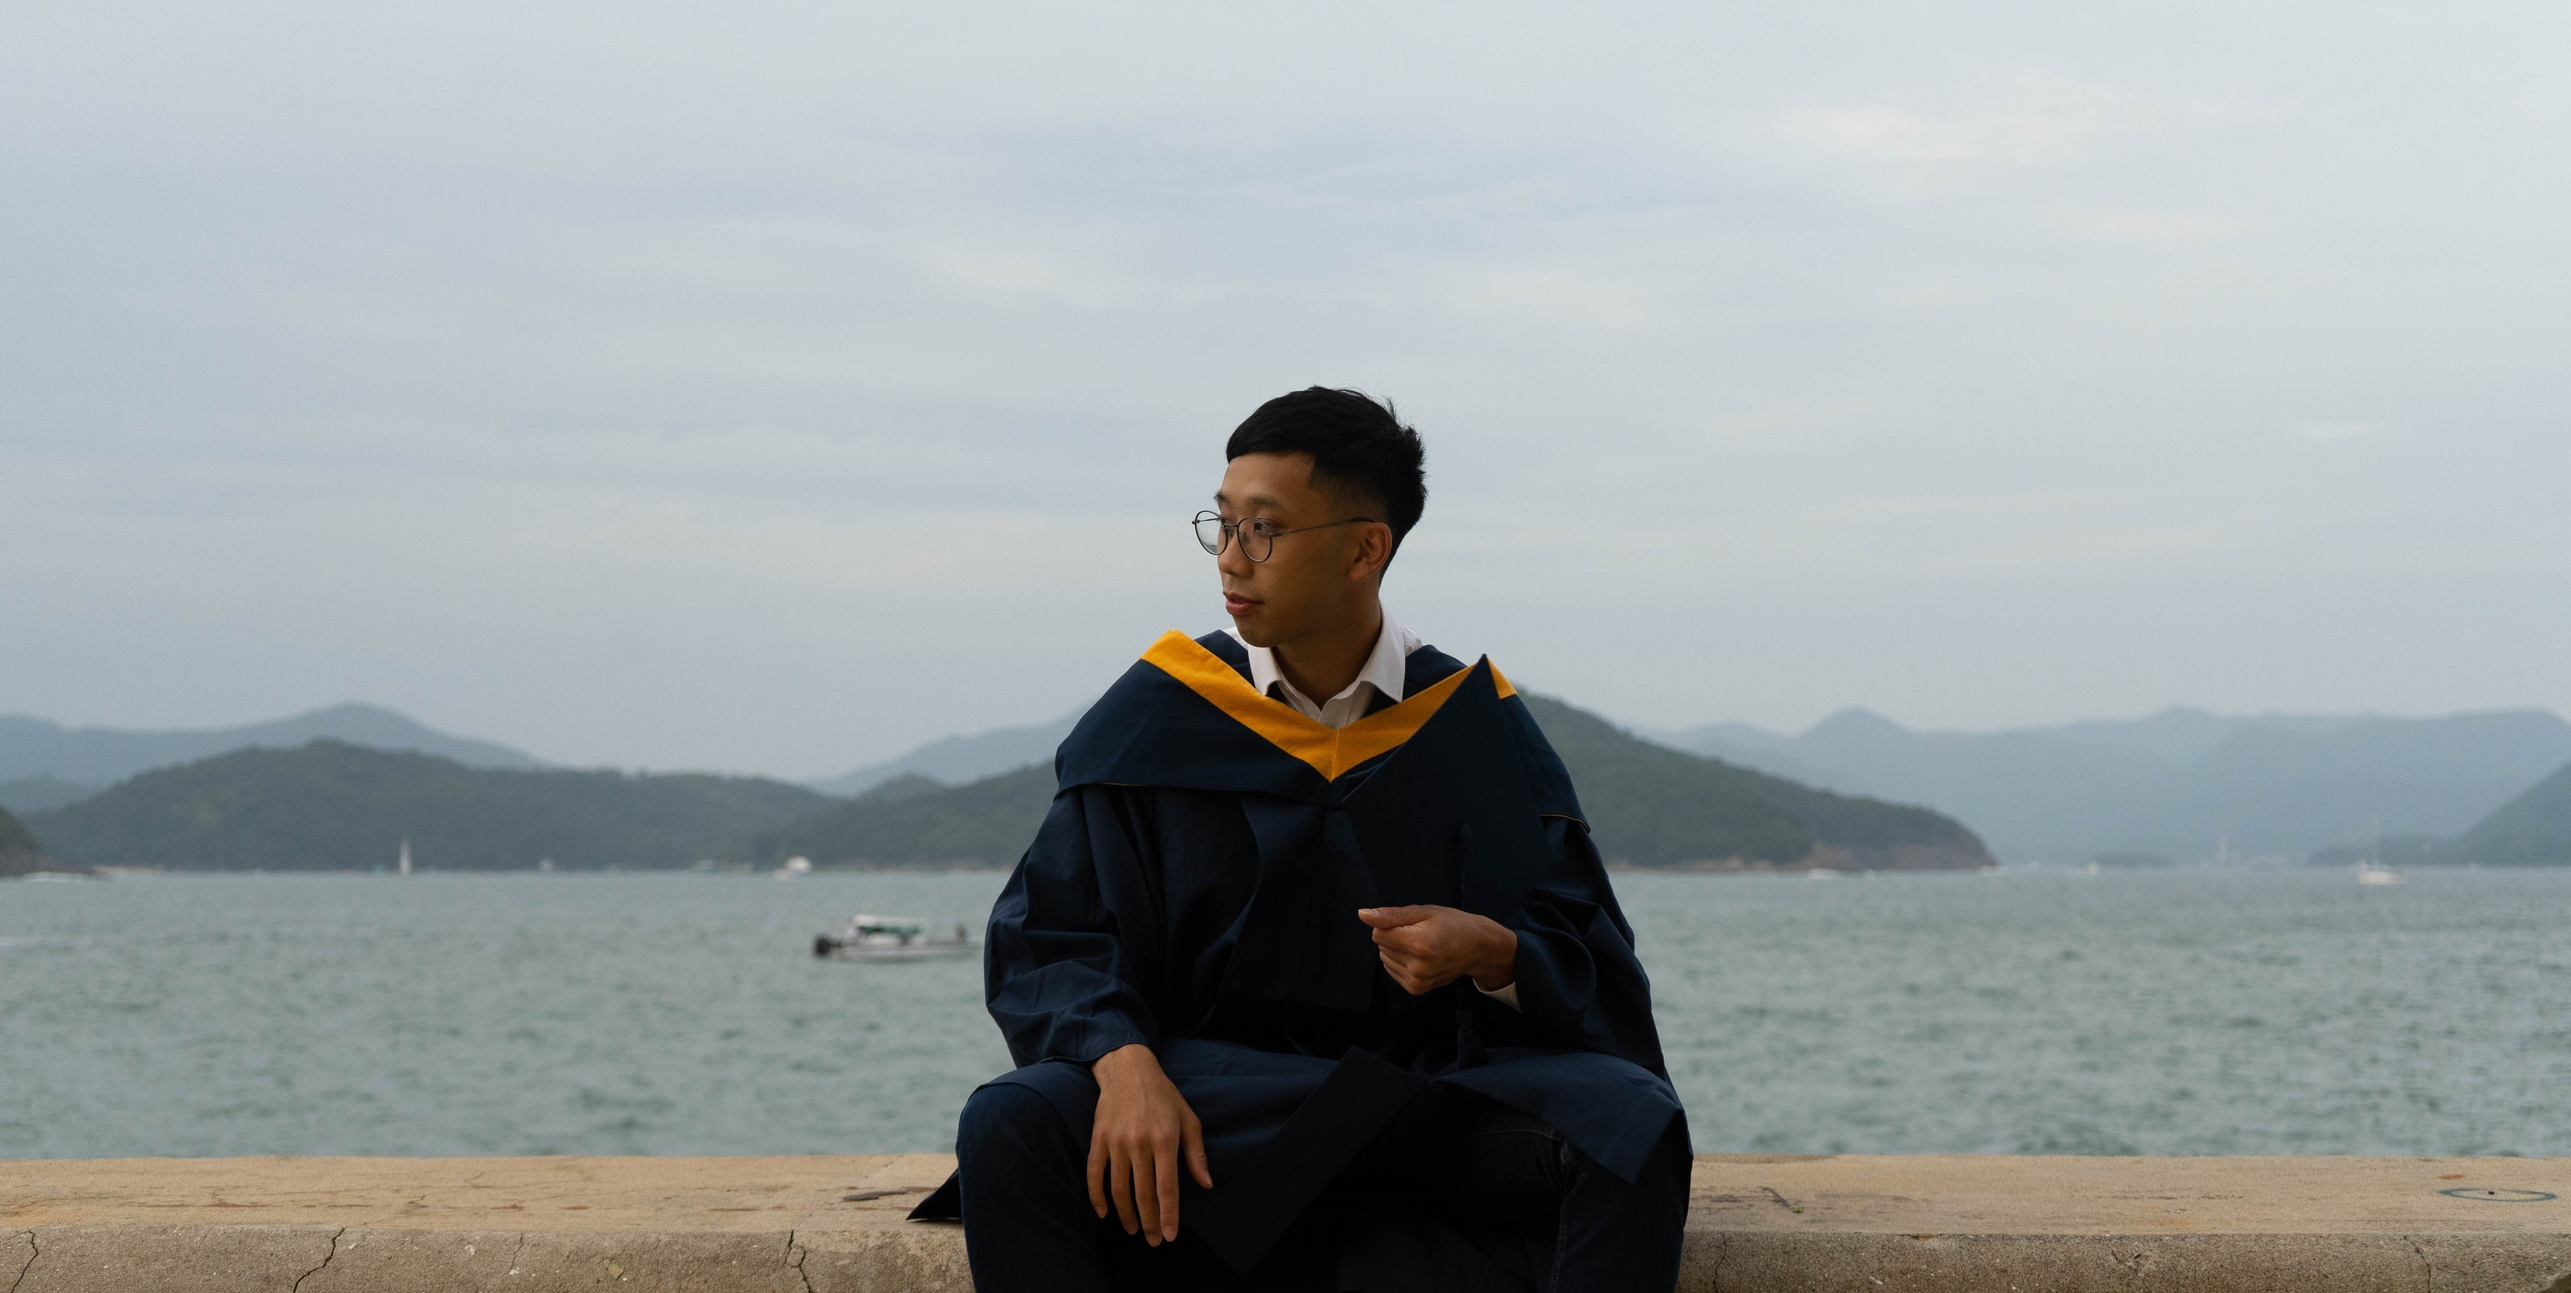
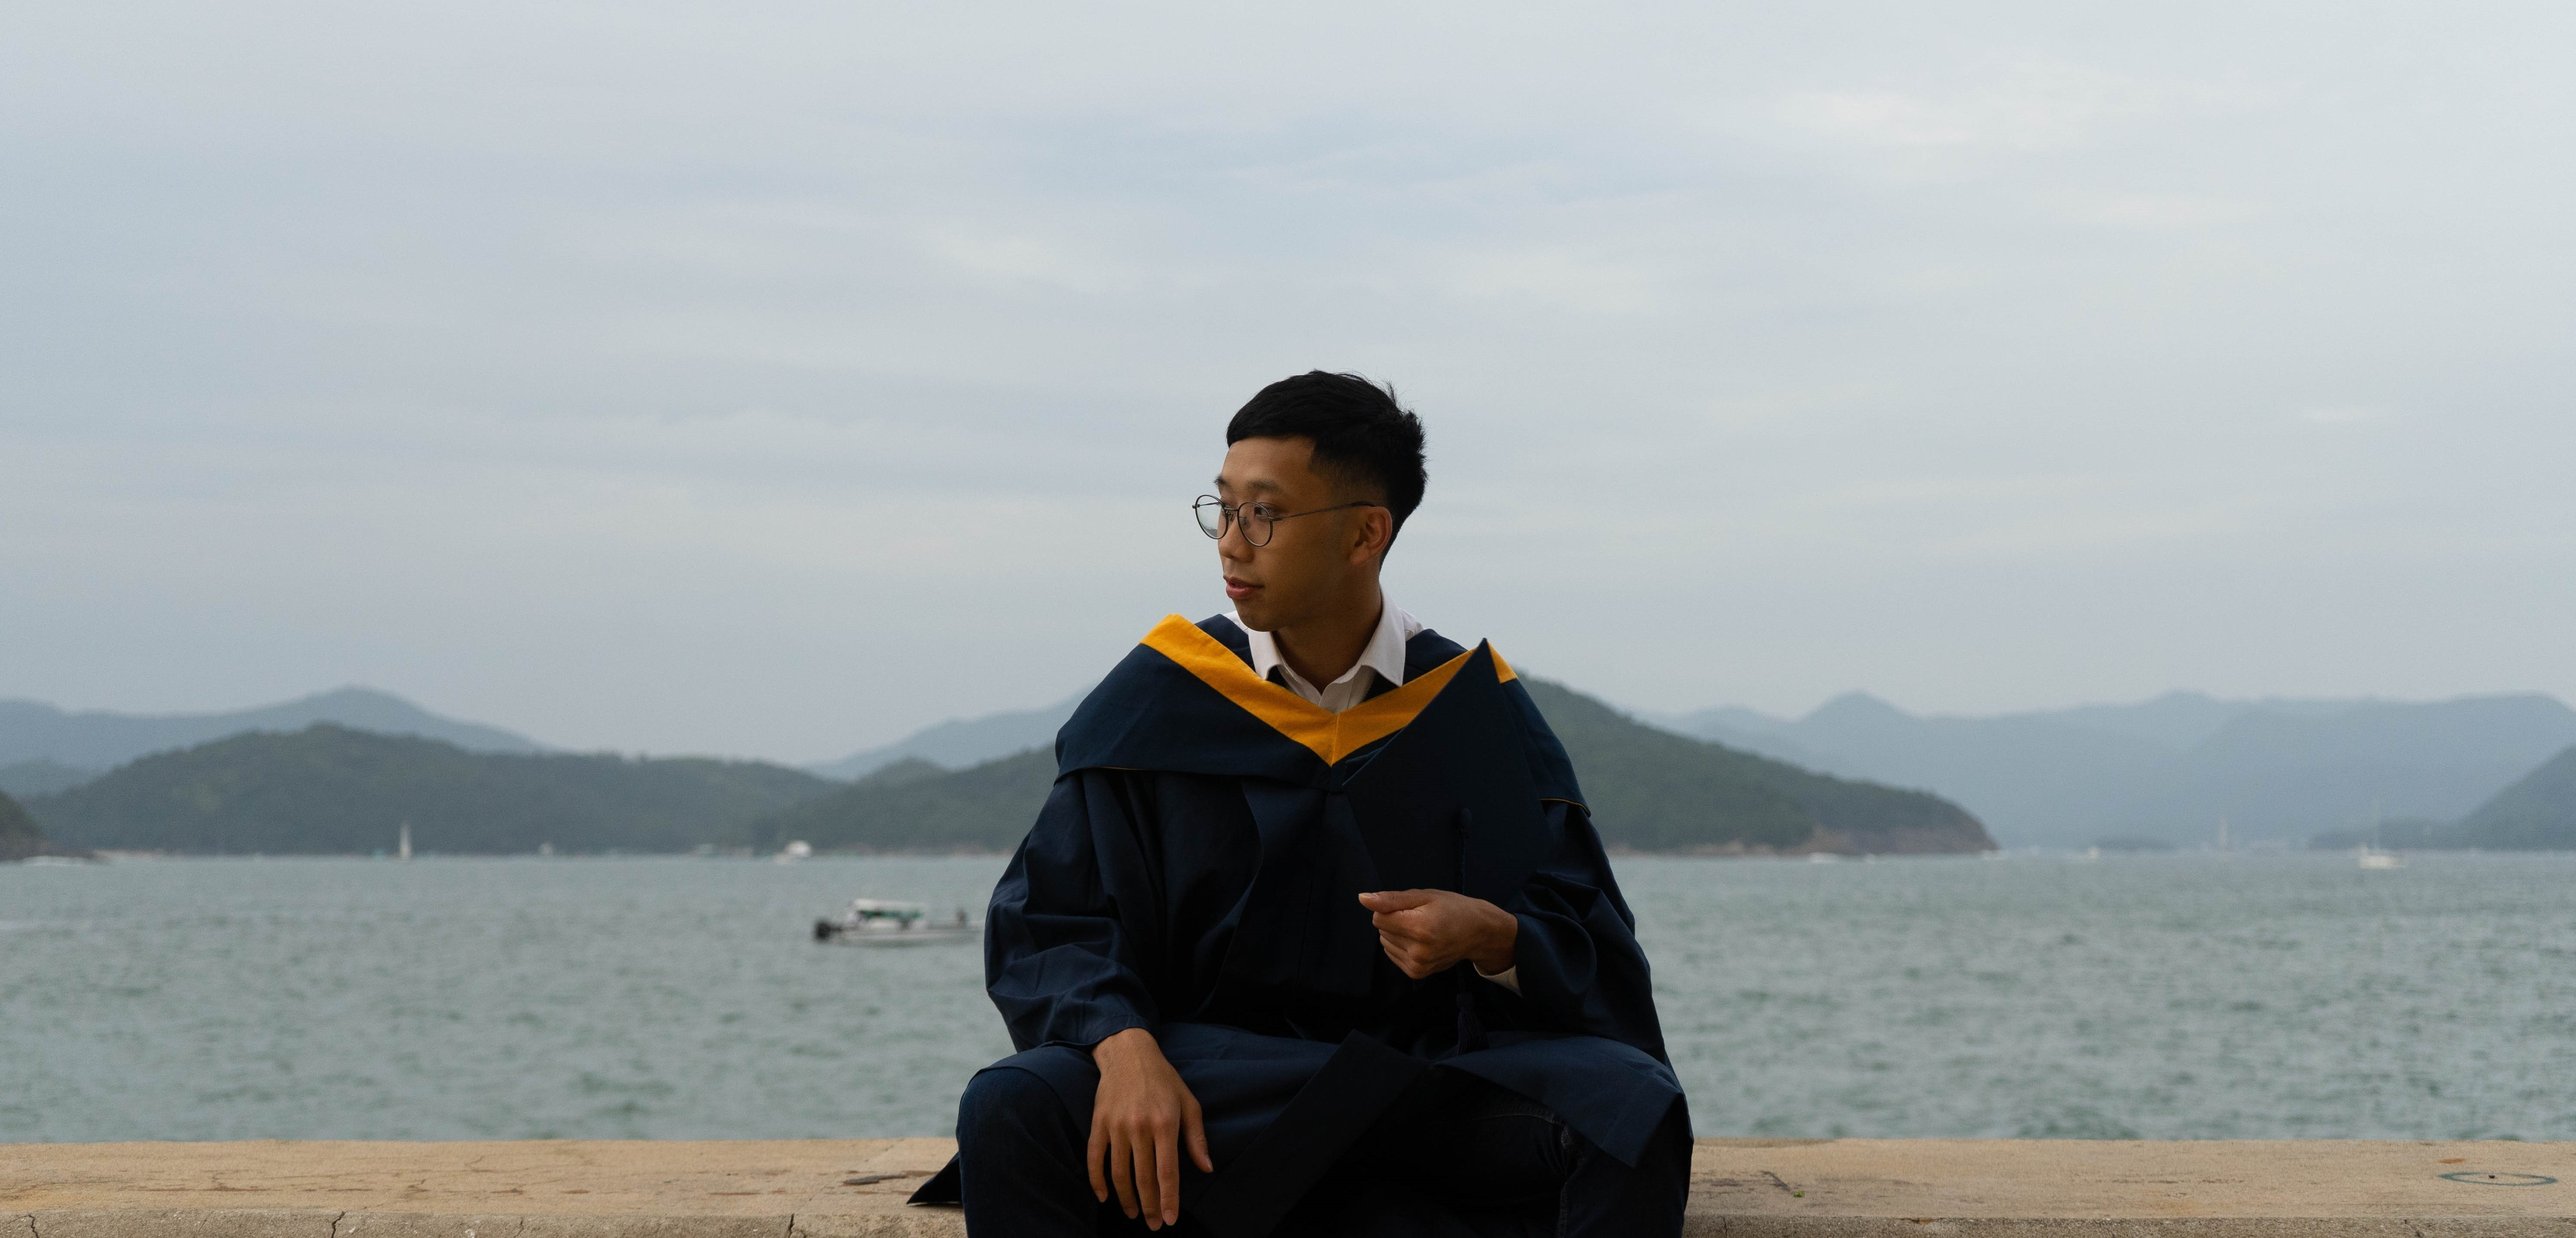
basically finished home page and keep other pages post 'coming soon'

diff --git a/src/component/header/header.styles.scss b/src/component/header/header.styles.scss
@@ -1,38 +1,41 @@
-.header-container{
+.header-container {
     position: relative;
     display: flex;
     justify-content: space-between;
     background: linear-gradient(180deg, #f9f9f9, #f7f7f7);
     margin: 0 5vw;
-    .menu-icon{
+    .menu-icon {
         width: 350px;
         display: flex;
         position: absolute;
         z-index: 1;
         left: 0;
         flex-direction: row;
-        align-items: end;
+        align-items: flex-end;
         justify-content: space-between;
         text-align: center;
         padding: 1vh 1vw;
         margin: 0vh 2vw;
-        #name-wrap{
+        a {
+            text-decoration: none;
+        }
+        #name-wrap {
             text-align: center;
-            #name{
+            #name {
                 color: #949494;
                 font-weight: 600;
                 font-size: 30px;
             }
         }
     }
-    .menu{
+    .menu {
         width: 350px;
         display: flex;
         position: absolute;
         z-index: 1;
         right: 0;
         flex-direction: row;
-        align-items: end;
+        align-items: flex-end;
         justify-content: space-between;
         font-size: 18px;
         text-align: center;

diff --git a/src/pages/home/home.styles.scss b/src/pages/home/home.styles.scss
@@ -1,28 +1,32 @@
-.home{
-    height: 100%;
-    width: 100%;
-    .container{
-        #banner-img{
-            width:100%;
-            height:100%;
+.home {
+    
+    .home-container {
+        img {
+            position: absolute;
+            top:0;
+            left:0;
+            width: 100%;
+            height: 100%;
             opacity: 0.9;
+            object-fit: cover;
         }
-        .title-description{
+        .title-description {
+            width: 30%;
             position: absolute;
             z-index: 1;
-            top: 28%;
+            top: 37%;
             left: 8%;
             text-align: left;
             color: #7c7c7c;
-            .title{
-                font-size: 2.8em;
+            .title {
+                font-size: 2.6em;
                 margin: 0;
             }
-            .description{
-                font-size: 1.2em;
+            .description {
+                font-size: 1em;
                 margin: 0;
-                position: absolute;
-                left: 32%;
+                text-align: right;
+                padding-right: 12px;
             }
         }
     }

diff --git a/src/App.js b/src/App.js
@@ -2,7 +2,12 @@ import React from 'react';
 import { Switch, Route } from 'react-router-dom';
 
 import Header from './component/header/header.component';
+
 import Home from './pages/home/home.component';
+import About from './pages/about/about.component';
+import Project from './pages/project/project.component';
+import Album from './pages/album/album.component';
+import Contact from './pages/contact/contact.component';
 
 import './App.css';
 
@@ -10,7 +15,15 @@ function App() {
   return (
     <div className="App">
       <Header />
-      <Home />
+      <div>
+        <Switch>
+          <Route exact path='/' component={Home} />
+          <Route path='/about' component={About} />
+          <Route path='/project' component={Project} />
+          <Route path='/album' component={Album} />
+          <Route path='/contact' component={Contact} />
+        </Switch>
+      </div>
     </div>
   );
 }

diff --git a/src/component/header/header.component.jsx b/src/component/header/header.component.jsx
@@ -29,8 +29,8 @@ class Header extends React.Component {
                     },
                     {
                         "id": 4,
-                        "name": "Gallery",
-                        "linkUrl": "/gallery",
+                        "name": "Album",
+                        "linkUrl": "/album",
                     },
                     {
                         "id": 5,
@@ -48,7 +48,7 @@ class Header extends React.Component {
         return (
             <div className="header-container">
                 <div className="menu-icon">
-                    <p id="name-wrap"><span id="name">MY</span></p>
+                    <Link to="/"><p id="name-wrap"><span id="name">MY</span></p></Link>
                 </div>
                 <div className="menu">
                     {

diff --git a/src/pages/home/home.component.jsx b/src/pages/home/home.component.jsx
@@ -1,12 +1,14 @@
 import React from 'react';
+
 import Banner from '../../assets/DSC02784.jpg';
+
 
 import './home.styles.scss';
 
 const Home = () => (
     <div className="home">
-        <div className="container">
-            <img id="banner-img" src={Banner} alt="Banner" />
+        <div className="home-container">
+            <img src={Banner} alt="Banner" />
             <div className="title-description">
                 <p className="title"><span>Hello This is Michael Yen</span></p>
                 <p className="description"><span>A Fresh Gruduated Computer Engineer</span></p>

diff --git a/src/index.js b/src/index.js
@@ -1,13 +1,16 @@
 import React from 'react';
 import ReactDOM from 'react-dom';
+import { BrowserRouter } from 'react-router-dom';
 import './index.css';
 import App from './App';
 import reportWebVitals from './reportWebVitals';
 
 ReactDOM.render(
-  <React.StrictMode>
-    <App />
-  </React.StrictMode>,
+  <BrowserRouter>
+    <React.StrictMode>
+      <App />
+    </React.StrictMode>
+  </BrowserRouter>,
   document.getElementById('root')
 );
 

diff --git a/src/pages/contact/contact.component.jsx b/src/pages/contact/contact.component.jsx
@@ -1,0 +1,14 @@
+import React from 'react';
+import Banner from '../../assets/DSC02981.jpg';
+import './contact.styles.scss';
+
+const Contact = () => (
+    <div>
+        <img src={Banner} alt="Banner" />
+        <div className="coming-soon">
+            <p>Coming Soon</p>
+        </div>
+    </div>
+)
+
+export default Contact;

diff --git a/src/pages/project/project.component.jsx b/src/pages/project/project.component.jsx
@@ -1,0 +1,14 @@
+import React from 'react';
+import Banner from '../../assets/DSC02981.jpg';
+import './project.styles.scss';
+
+const Project = () => (
+    <div>
+        <img src={Banner} alt="Banner" />
+        <div className="coming-soon">
+            <p>Coming Soon</p>
+        </div>
+    </div>
+)
+
+export default Project;

diff --git a/src/pages/about/about.component.jsx b/src/pages/about/about.component.jsx
@@ -1,0 +1,14 @@
+import React from 'react';
+import Banner from '../../assets/DSC02981.jpg';
+import './about.styles.scss';
+
+const About = () => (
+    <div>
+        <img src={Banner} alt="Banner" />
+        <div className="coming-soon">
+            <p>Coming Soon</p>
+        </div>
+    </div>
+)
+
+export default About;

diff --git a/src/pages/album/album.component.jsx b/src/pages/album/album.component.jsx
@@ -1,0 +1,14 @@
+import React from 'react';
+import Banner from '../../assets/DSC02981.jpg';
+import './album.styles.scss';
+
+const Album = () => (
+    <div>
+        <img src={Banner} alt="Banner" />
+        <div className="coming-soon">
+            <p>Coming Soon</p>
+        </div>
+    </div>
+)
+
+export default Album;

diff --git a/src/component/menuItem/menuItem.component.jsx b/src/component/menuItem/menuItem.component.jsx
@@ -4,8 +4,8 @@ import { Link } from 'react-router-dom';
 import './menuItem.styles.scss';
 
 const MenuItem = ({ name, linkUrl }) => (
-    <div className='menuItem'>
-        <p>{name}</p>
+    <div className='menu-item'>
+        <Link to={linkUrl}><p>{name}</p></Link>
     </div>
 )
 

diff --git a/src/pages/about/about.styles.scss b/src/pages/about/about.styles.scss
@@ -1,0 +1,18 @@
+img {
+    position: absolute;
+    top:0;
+    left:0;
+    width: 100%;
+    height: 100%;
+    opacity: 0.7;
+    object-fit: cover;
+}
+
+.coming-soon {
+    margin: 280px;
+    p{
+        font-size: 4em;
+        padding: 10px;
+        color: #2b2b2b;
+    }
+}
